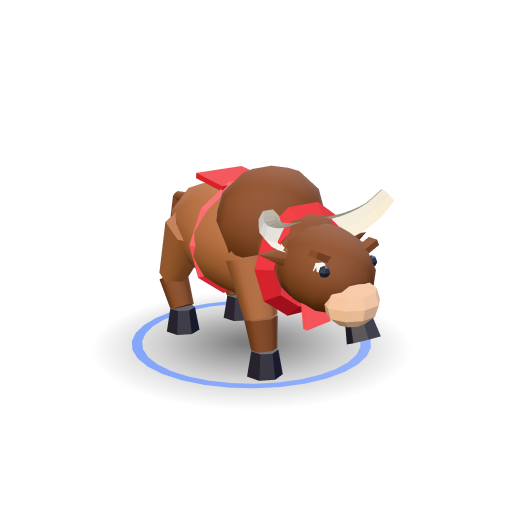
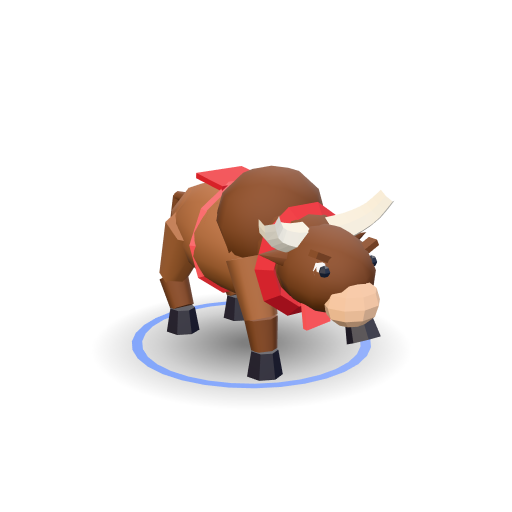
wip(render): in-progress character model integration
Claude-Session: https://claude.ai/code/session_01CHbyEtdGcc9JJBQ25d4ssC

Changed region(s): [[0.5, 0.4062, 0.625, 0.5], [0.625, 0.4062, 0.6875, 0.4375], [0.75, 0.375, 0.7812, 0.4062]]

diff --git a/src/render/BoardView.ts b/src/render/BoardView.ts
@@ -14,6 +14,13 @@ import { RoundedBoxGeometry } from 'three/addons/geometries/RoundedBoxGeometry.j
 import { BOARD_SIZE, ZONE_DEPTH } from '../engine/types';
 import type { CharacterId, Move, Piece, PlayerId, Pos, Rarity } from '../engine/types';
 import type { BoardHighlights, IBoardView } from './types';
+import {
+  buildBatchedCharacterModel,
+  createBatchMaterials,
+  disposeBatchMaterials,
+  disposeCharacterCache,
+  type BatchMaterials,
+} from './characters';
 import { ANIM, BOARD_COLORS, CHARACTER_RARITY, RARITY_COLORS, RARITY_GLOW, TEAM_COLORS } from './palette';
 import {
   clamp01,
@@ -53,7 +60,10 @@ const SELECT_LIFT = 0.12;
 const TAP_SLOP_PX = 14;
 const MAX_PIXEL_RATIO = 2;
 const IDLE_FRAME_MS = 32; // idle pulse (selection / targets) is capped at ~30 fps
-const PIECE_SCALE = 1.34;
+/** Uniform scale of each character model on the board (tile = 1 unit; the bull is long, so smaller). */
+const MODEL_SCALE: Record<CharacterId, number> = { sad: 0.96, marki: 0.86, walk: 0.96 };
+/** Height of the puck top above the tile (models stand on it). */
+const PUCK_TOP = 0.14;
 /** Rows between the zone edge lines (world z of the line between home zone and no-man's land). */
 const ZONE_LINE_Z: Record<PlayerId, number> = {
   0: HALF - (ZONE_DEPTH - 0.5),
@@ -118,26 +128,11 @@ class PieceKit {
   readonly rarityRing: THREE.BufferGeometry;
   readonly pip: THREE.BufferGeometry;
   readonly groundPlane: THREE.BufferGeometry;
-  // sad
-  readonly sadPillar: THREE.BufferGeometry;
-  readonly sadCap: THREE.BufferGeometry;
-  readonly sadArm: THREE.BufferGeometry;
-  readonly sadGem: THREE.BufferGeometry;
-  // marki
-  readonly markiShaft: THREE.BufferGeometry;
-  readonly markiCollar: THREE.BufferGeometry;
-  readonly markiTip: THREE.BufferGeometry;
-  readonly markiChevron: THREE.BufferGeometry;
-  // walk
-  readonly walkNeck: THREE.BufferGeometry;
-  readonly walkOrb: THREE.BufferGeometry;
-  readonly walkHalo: THREE.BufferGeometry;
   readonly burstBit: THREE.BufferGeometry;
 
-  readonly team: Record<PlayerId, THREE.MeshStandardMaterial>;
-  readonly teamDark: Record<PlayerId, THREE.MeshStandardMaterial>;
-  readonly teamLight: Record<PlayerId, THREE.MeshStandardMaterial>;
-  readonly teamGlow: Record<PlayerId, THREE.MeshStandardMaterial>;
+  /** Per-team shared materials for the merged character models (rim-lit in the team's light tone). */
+  readonly batch: Record<PlayerId, BatchMaterials>;
+  private readonly models = new Map<string, THREE.Group>();
   readonly rarity: Record<Rarity, THREE.MeshStandardMaterial>;
   readonly rarityHalo: Record<Rarity, THREE.MeshBasicMaterial>;
   readonly baseMat: THREE.MeshStandardMaterial;
@@ -169,56 +164,14 @@ class PieceKit {
     this.pip = g(new THREE.SphereGeometry(0.063, 12, 8));
     this.groundPlane = g(new THREE.PlaneGeometry(1, 1).rotateX(-Math.PI / 2));
 
-    // sad: sturdy octagonal tower with a plus-shaped crown.
-    this.sadPillar = g(new THREE.CylinderGeometry(0.2, 0.25, 0.42, 8).translate(0, 0.14 + 0.21, 0));
-    this.sadCap = g(new THREE.CylinderGeometry(0.28, 0.22, 0.08, 8).translate(0, 0.6, 0));
-    this.sadArm = g(new RoundedBoxGeometry(0.6, 0.15, 0.19, 2, 0.04).translate(0, 0.715, 0));
-    this.sadGem = g(new THREE.OctahedronGeometry(0.075, 0).translate(0, 0.86, 0));
-
-    // marki: spear leaning toward its forward direction (built pointing toward -z, i.e. +r).
-    this.markiShaft = g(new THREE.CylinderGeometry(0.09, 0.115, 0.52, 8).translate(0, 0.26, 0));
-    this.markiCollar = g(new THREE.CylinderGeometry(0.19, 0.14, 0.08, 8).translate(0, 0.55, 0));
-    this.markiTip = g(new THREE.ConeGeometry(0.25, 0.5, 4).rotateY(Math.PI / 4).translate(0, 0.59 + 0.25, 0));
-    const chev = new THREE.Shape();
-    chev.moveTo(0, 0.13);
-    chev.lineTo(0.2, -0.04);
-    chev.lineTo(0.13, -0.1);
-    chev.lineTo(0, 0.0);
-    chev.lineTo(-0.13, -0.1);
-    chev.lineTo(-0.2, -0.04);
-    chev.closePath();
-    this.markiChevron = g(
-      new THREE.ExtrudeGeometry(chev, { depth: 0.025, bevelEnabled: false })
-        .rotateX(-Math.PI / 2) // shape +y -> world -z (forward)
-        .translate(0, 0.12, -0.2),
-    );
-
-    // walk: orb on a short neck with a floating halo ring.
-    this.walkNeck = g(new THREE.CylinderGeometry(0.12, 0.19, 0.1, 16).translate(0, 0.19, 0));
-    this.walkOrb = g(new THREE.SphereGeometry(0.26, 24, 16).translate(0, 0.45, 0));
-    this.walkHalo = g(new THREE.TorusGeometry(0.35, 0.032, 8, 40).rotateX(Math.PI / 2));
-
     this.burstBit = g(new THREE.IcosahedronGeometry(0.095, 0));
 
     const std = (color: string, roughness: number, emissive?: string, ei = 0): THREE.MeshStandardMaterial =>
       m(new THREE.MeshStandardMaterial({ color, roughness, metalness: 0.05, emissive: emissive ?? '#000000', emissiveIntensity: ei }));
 
-    const mk = (id: PlayerId): void => {
-      const t = TEAM_COLORS[id];
-      this.team[id] = std(t.main, 0.38, t.main, 0.22);
-      addRim(this.team[id], t.light, 1.1);
-      this.teamDark[id] = std(t.dark, 0.5, t.dark, 0.2);
-      addRim(this.teamDark[id], t.light, 0.6);
-      this.teamLight[id] = std(t.light, 0.35, t.light, 0.25);
-      addRim(this.teamLight[id], '#FFFFFF', 0.5);
-      this.teamGlow[id] = std(t.glow, 0.4, t.glow, 1.15);
-    };
-    this.team = {} as Record<PlayerId, THREE.MeshStandardMaterial>;
-    this.teamDark = {} as Record<PlayerId, THREE.MeshStandardMaterial>;
-    this.teamLight = {} as Record<PlayerId, THREE.MeshStandardMaterial>;
-    this.teamGlow = {} as Record<PlayerId, THREE.MeshStandardMaterial>;
-    mk(0);
-    mk(1);
+    const mk = (id: PlayerId): BatchMaterials =>
+      createBatchMaterials((mat) => addRim(mat, TEAM_COLORS[id].light, 0.55, 2.4));
+    this.batch = { 0: mk(0), 1: mk(1) };
 
     const glowTex = makeGlowTexture();
     const blobTex = makeBlobTexture();
@@ -306,61 +259,40 @@ class PieceKit {
       pip.position.set(Math.sin(a) * 0.35, 0.145, Math.cos(a) * 0.35);
     }
 
-    // Body is yawed so that its local -z faces the owner's forward direction.
-    const body = new THREE.Group();
-    body.rotation.y = p.owner === 0 ? 0 : Math.PI;
-    body.scale.set(PIECE_SCALE, PIECE_SCALE * 1.28, PIECE_SCALE);
-    body.position.y = 0.0;
+    // Character model (faces +z). Player 0 moves toward -z (away from the camera) and player 1
+    // toward +z (facing the camera), so player 0's body is turned around.
+    const body = this.model(p.character, p.level, p.owner).clone(true);
+    body.rotation.y = p.owner === 0 ? Math.PI : 0;
+    body.scale.setScalar(MODEL_SCALE[p.character]);
+    body.position.y = PUCK_TOP - 0.01;
     inner.add(body);
-    this.buildBody(p.character, body, p.owner);
     return { root, inner };
   }
 
-  private buildBody(ch: CharacterId, body: THREE.Group, owner: PlayerId): void {
-    const add = (geo: THREE.BufferGeometry, mat: THREE.Material, parent: THREE.Object3D = body): THREE.Mesh => {
-      const me = new THREE.Mesh(geo, mat);
-      me.castShadow = true;
-      parent.add(me);
-      return me;
-    };
-    const teamMat = this.team[owner];
-    switch (ch) {
-      case 'sad': {
-        add(this.sadPillar, teamMat);
-        add(this.sadCap, this.teamDark[owner]);
-        add(this.sadArm, teamMat);
-        add(this.sadArm, teamMat).rotation.y = Math.PI / 2;
-        add(this.sadGem, this.teamGlow[owner]).castShadow = false;
-        break;
-      }
-      case 'marki': {
-        add(this.markiChevron, this.teamGlow[owner]).castShadow = false;
-        const spear = new THREE.Group();
-        spear.position.set(0, 0.13, 0.06);
-        spear.rotation.x = -0.24; // lean toward -z (forward)
-        body.add(spear);
-        add(this.markiShaft, teamMat, spear);
-        add(this.markiCollar, this.teamLight[owner], spear);
-        add(this.markiTip, teamMat, spear);
-        break;
-      }
-      case 'walk': {
-        add(this.walkNeck, this.teamDark[owner]);
-        add(this.walkOrb, teamMat);
-        const halo = add(this.walkHalo, this.teamGlow[owner]);
-        halo.castShadow = false;
-        halo.position.y = 0.48;
-        halo.rotation.x = 0.32;
-        halo.rotation.z = 0.12;
-        break;
-      }
+  /** Merged (<= 4 meshes) template per character/level/owner, built lazily and cached. */
+  private model(ch: CharacterId, level: Piece['level'], owner: PlayerId): THREE.Group {
+    const key = `${ch}:${level}:${owner}`;
+    let tpl = this.models.get(key);
+    if (!tpl) {
+      tpl = buildBatchedCharacterModel({ character: ch, level, owner }, this.batch[owner]);
+      this.models.set(key, tpl);
     }
+    return tpl;
   }
 
   dispose(): void {
     for (const geo of this.geometries) geo.dispose();
     for (const mat of this.materials) mat.dispose();
     for (const t of this.textures) t.dispose();
+    for (const m of this.models.values()) {
+      m.traverse((o) => {
+        if ((o as THREE.Mesh).isMesh) (o as THREE.Mesh).geometry.dispose();
+      });
+    }
+    this.models.clear();
+    disposeBatchMaterials(this.batch[0]);
+    disposeBatchMaterials(this.batch[1]);
+    disposeCharacterCache();
   }
 }
 

diff --git a/src/render/characters/batch.ts b/src/render/characters/batch.ts
@@ -1,0 +1,136 @@
+/**
+ * Draw-call friendly version of the character models: every mesh of a model is baked (world
+ * transform, flat/smooth normals, per-vertex colour) and merged into at most four meshes, one per
+ * "material class":
+ *   matte  - cloth, leather, fur, skin, wood            (MeshStandardMaterial, vertex colours)
+ *   metal  - steel, gold                                (MeshStandardMaterial, vertex colours)
+ *   glow   - self-lit gems, blades, eyes                (MeshBasicMaterial, vertex colours)
+ *   aura   - additive halos / ground rings (subtle)     (MeshBasicMaterial, additive)
+ * The result can be cloned per piece (`Group.clone()` shares geometry and materials).
+ */
+import * as THREE from 'three';
+import { mergeGeometries } from 'three/addons/utils/BufferGeometryUtils.js';
+import { buildCharacterModel, type CharacterModelOptions } from './index';
+
+export interface BatchMaterials {
+  matte: THREE.MeshStandardMaterial;
+  metal: THREE.MeshStandardMaterial;
+  glow: THREE.MeshBasicMaterial;
+  aura: THREE.MeshBasicMaterial;
+}
+
+/** Creates the four shared materials. `decorate` may add e.g. a rim light to the standard ones. */
+export function createBatchMaterials(decorate?: (m: THREE.MeshStandardMaterial) => void): BatchMaterials {
+  const matte = new THREE.MeshStandardMaterial({ vertexColors: true, roughness: 0.8, metalness: 0.0 });
+  const metal = new THREE.MeshStandardMaterial({ vertexColors: true, roughness: 0.38, metalness: 0.55 });
+  decorate?.(matte);
+  decorate?.(metal);
+  const glow = new THREE.MeshBasicMaterial({ vertexColors: true });
+  const aura = new THREE.MeshBasicMaterial({
+    vertexColors: true,
+    transparent: true,
+    blending: THREE.AdditiveBlending,
+    depthWrite: false,
+    side: THREE.DoubleSide,
+  });
+  return { matte, metal, glow, aura };
+}
+
+export function disposeBatchMaterials(m: BatchMaterials): void {
+  m.matte.dispose();
+  m.metal.dispose();
+  m.glow.dispose();
+  m.aura.dispose();
+}
+
+type Klass = keyof BatchMaterials;
+
+function classify(mat: THREE.Material): { klass: Klass; color: THREE.Color; flat: boolean } {
+  if (mat instanceof THREE.MeshBasicMaterial) {
+    // additive aura materials: colour * opacity, because additive blending makes that the intensity
+    return { klass: 'aura', color: mat.color.clone().multiplyScalar(mat.opacity), flat: false };
+  }
+  const s = mat as THREE.MeshStandardMaterial;
+  if (s.emissiveIntensity >= 1 && (s.emissive.r > 0 || s.emissive.g > 0 || s.emissive.b > 0)) {
+    return { klass: 'glow', color: s.emissive.clone().multiplyScalar(Math.min(1.15, s.emissiveIntensity)), flat: false };
+  }
+  return { klass: s.metalness > 0.3 ? 'metal' : 'matte', color: s.color.clone(), flat: s.flatShading };
+}
+
+/**
+ * Builds a character and merges it into <= 4 meshes. `auraStrength` scales the additive glow
+ * (0 removes it). The model's own rarity ring is dropped (the board puck has one).
+ */
+export function buildBatchedCharacterModel(
+  opts: CharacterModelOptions,
+  mats: BatchMaterials,
+  auraStrength = 0.45,
+): THREE.Group {
+  const src = buildCharacterModel(opts);
+  const ring = src.getObjectByName('rarity-ring');
+  ring?.parent?.remove(ring);
+  src.updateMatrixWorld(true);
+
+  const buckets: Record<Klass, THREE.BufferGeometry[]> = { matte: [], metal: [], glow: [], aura: [] };
+  src.traverse((o) => {
+    const mesh = o as THREE.Mesh;
+    if (!mesh.isMesh) return;
+    const { klass, color, flat } = classify(mesh.material as THREE.Material);
+    if (klass === 'aura') color.multiplyScalar(auraStrength);
+    if (klass === 'aura' && auraStrength <= 0) return;
+    let geo = mesh.geometry.index ? mesh.geometry.toNonIndexed() : mesh.geometry.clone();
+    geo.deleteAttribute('uv');
+    geo.applyMatrix4(mesh.matrixWorld);
+    if (mesh.matrixWorld.determinant() < 0) geo = flipWinding(geo);
+    if (flat) geo.computeVertexNormals(); // non-indexed => per-face (flat) normals
+    const n = geo.attributes.position.count;
+    const col = new Float32Array(n * 3);
+    for (let i = 0; i < n; i++) {
+      col[i * 3] = color.r;
+      col[i * 3 + 1] = color.g;
+      col[i * 3 + 2] = color.b;
+    }
+    geo.setAttribute('color', new THREE.BufferAttribute(col, 3));
+    buckets[klass].push(geo);
+  });
+
+  const out = new THREE.Group();
+  out.name = src.name;
+  out.userData = { ...src.userData };
+  const head = src.getObjectByName('head');
+  if (head) out.add(head.clone());
+  (Object.keys(buckets) as Klass[]).forEach((k) => {
+    const list = buckets[k];
+    if (!list.length) return;
+    const merged = mergeGeometries(list, false);
+    for (const g of list) g.dispose();
+    if (!merged) return;
+    merged.computeBoundingSphere();
+    const m = new THREE.Mesh(merged, mats[k]);
+    m.name = `batch-${k}`;
+    m.castShadow = k !== 'aura';
+    if (k === 'aura') m.renderOrder = 2;
+    out.add(m);
+  });
+  // The source meshes are throw-away; geometries/materials of the source live in the kit cache.
+  return out;
+}
+
+function flipWinding(geo: THREE.BufferGeometry): THREE.BufferGeometry {
+  for (const name of Object.keys(geo.attributes)) {
+    const attr = geo.attributes[name] as THREE.BufferAttribute;
+    const size = attr.itemSize;
+    const arr = attr.array as Float32Array;
+    for (let t = 0; t < attr.count; t += 3) {
+      for (let k = 0; k < size; k++) {
+        const a = (t + 1) * size + k;
+        const b = (t + 2) * size + k;
+        const tmp = arr[a];
+        arr[a] = arr[b];
+        arr[b] = tmp;
+      }
+    }
+    attr.needsUpdate = true;
+  }
+  return geo;
+}

diff --git a/src/render/characters/marki.ts b/src/render/characters/marki.ts
@@ -122,7 +122,7 @@ export function buildMarki(g: THREE.Group, { level: L, team }: BuildCtx): void {
         const a0 = hp[i];
         const b0 = hp[i + 1];
         const [ax] = axis(hornParent, a0, [a0[0] + (b0[0] - a0[0]), a0[1] + (b0[1] - a0[1]), a0[2] + (b0[2] - a0[2])]);
-        torus(ax, hr[i] + 0.008, 0.015, teamCloth, { rot: [Math.PI / 2, 0, 0] }, [3, 8]);
+        torus(ax, hr[i] * 0.95 + 0.004, 0.017, teamCloth, { rot: [Math.PI / 2, 0, 0] }, [3, 8]);
       }
       if (L === 2) {
         const tip = hp[hp.length - 1];

diff --git a/src/render/characters/kit.ts b/src/render/characters/kit.ts
@@ -262,7 +262,7 @@ export function taperedTube(
         const b2 = i * radial + ((j + 1) % radial);
         const c2 = (i + 1) * radial + j;
         const d = (i + 1) * radial + ((j + 1) % radial);
-        idx.push(a, c2, b2, b2, c2, d);
+        idx.push(a, b2, c2, b2, d, c2);
       }
     }
     const g = new THREE.BufferGeometry();

diff --git a/src/render/characters/index.ts b/src/render/characters/index.ts
@@ -87,3 +87,6 @@ export function buildCharacterModel(opts: CharacterModelOptions): THREE.Group {
 export function disposeCharacterCache(): void {
   disposeKit();
 }
+
+export { buildBatchedCharacterModel, createBatchMaterials, disposeBatchMaterials } from './batch';
+export type { BatchMaterials } from './batch';
